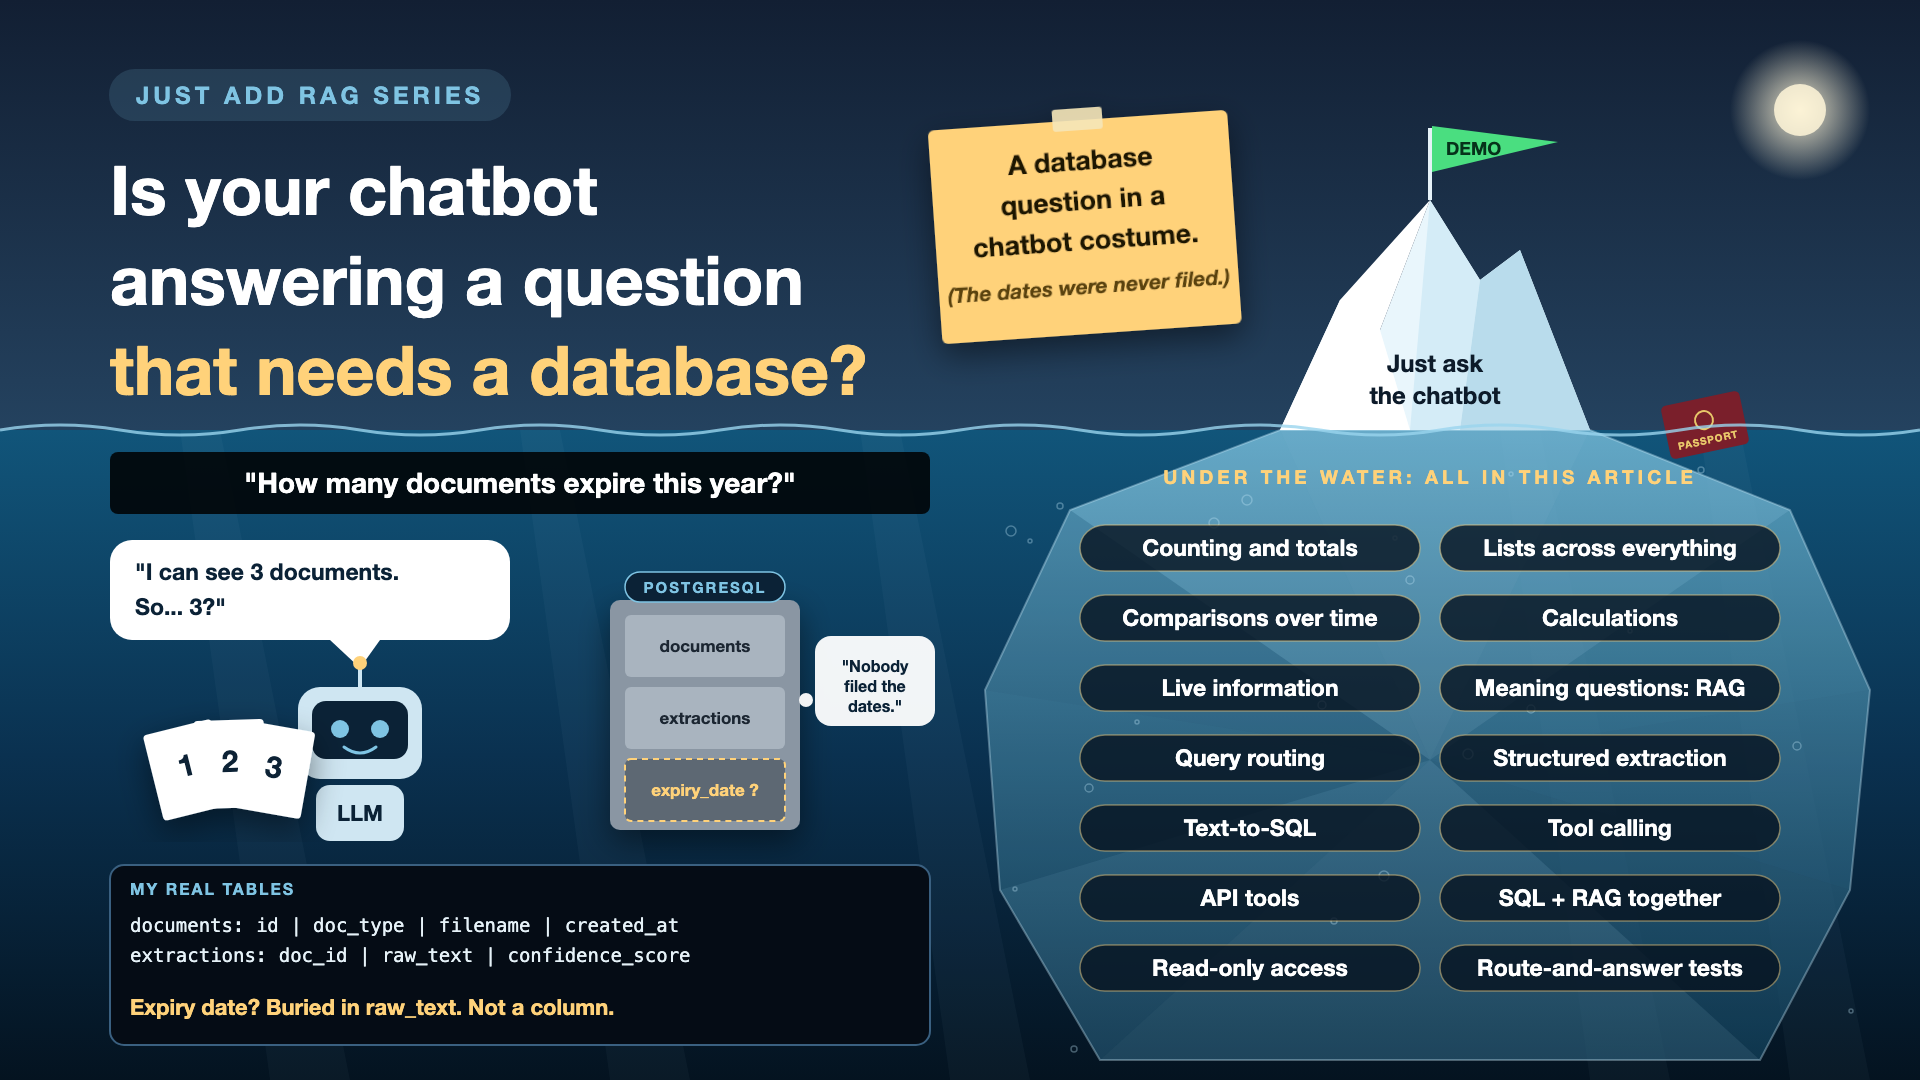
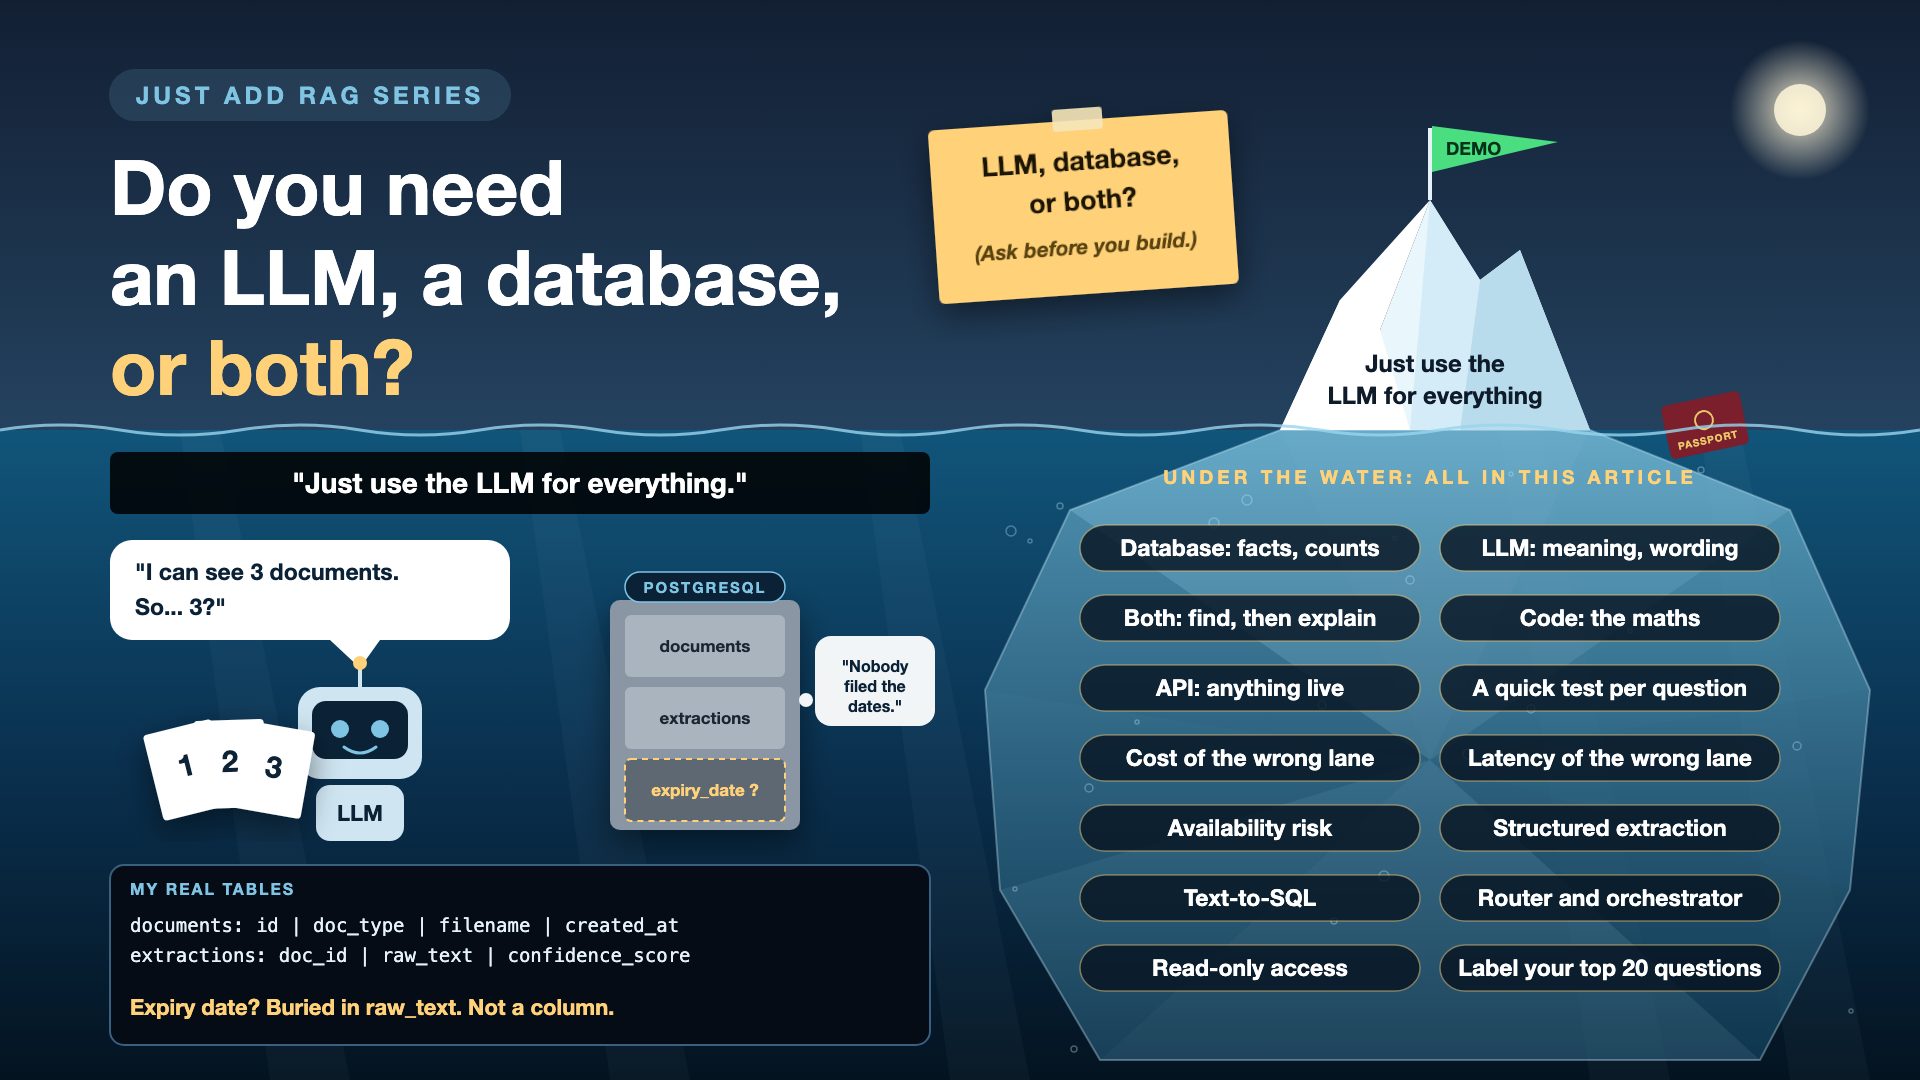
Write-up 6 retitled: Do you need an LLM, a database, or both? New cover and post text

diff --git a/01-just-add-rag/05-right-tool.md b/01-just-add-rag/05-right-tool.md
@@ -1,56 +1,74 @@
-# 6. Is Your Chatbot Answering a Question That Needs a Database?
+# 6. Do You Need an LLM, a Database, or Both?
 
 ![Cover](images/05-right-tool-cover.png)
 
-*Just add RAG series: Picking the right tool*
+*Just add RAG series: LLM, database, or both*
 
-"Which of my documents expire this year?"
+Every AI kickoff quietly assumes the answer is an LLM. Often it's a database. Sometimes it's both.
 
-Sounds like a perfect question for an AI assistant. It isn't. It's a database query wearing a chatbot costume.
+"Which of my documents expire this year?" sounds like a perfect question for an AI assistant. It isn't. It's a database query wearing a chatbot costume. RAG finds a few relevant passages and answers from them. This question needs every document checked, every date compared, and a list counted. A simple database query does that in milliseconds.
 
-RAG is built to find a few relevant passages and answer from them. This question needs every document checked, every date compared, and a list counted. Search for meaning can't do that. A simple database query can, in milliseconds.
+But "What does my renewal policy say about lost passports?" is the opposite. No database column holds that. It needs reading and understanding. That's LLM work.
+
+And "Which documents expire this year, and what do I need to renew them?" needs both.
 
 *New to terms like text-to-SQL or query routing? Cheat sheet at the end.*
 
-## Why picking the right tool matters
+## Why this choice matters
 
-- **RAG sees a few chunks, not everything.** It answers from the top 3 results. Ask "how many?" and it counts what it was handed, not what you have.
-- **The wrong tool still sounds right.** An incomplete list arrives in perfect sentences. Nobody notices the missing items.
-- **Users don't know the difference.** They just ask. Telling a search question from a counting question is the system's job, not theirs.
-- **The right tool is often cheaper.** A database query costs almost nothing. A long LLM answer built from guesswork costs tokens and trust.
+- **An LLM sees a few chunks, not everything.** RAG answers from the top 3 results. Ask "how many?" and it counts what it was handed, not what you have.
+- **The wrong choice still sounds right.** An incomplete list arrives in perfect sentences. Nobody notices the missing items.
+- **Users don't know the difference.** They just ask. Deciding which kind of question it is, is the system's job, not theirs.
+- **It shapes cost, speed and uptime.** More on that below.
 
 ## What my assistant could, and couldn't, answer
 
 My PostgreSQL database already had a `documents` table, with each document's type, file name and upload date, and an `extractions` table holding the OCR text.
 
-So "how many documents have I uploaded?" was one SQL line away. But "which documents expire this year?" wasn't, because the expiry date lived only inside the raw text: `समाप्ति की तिथि 29/09/2024`. Not in a column anyone could query. The answer existed. It just wasn't anywhere a database could count it.
+So "how many documents have I uploaded?" was one SQL line away. No LLM needed. But "which documents expire this year?" wasn't, because the expiry date lived only inside the raw text: `समाप्ति की तिथि 29/09/2024`. Not in a column anyone could query. The answer existed. It just wasn't anywhere a database could count it.
 
-## Six kinds of questions, six different tools
+## Three lanes: database, LLM, or both
 
-- **Counting and totals.** "How many documents do I have?" RAG sees the top 3, so it may happily say three. *Fix: answer from the database, not from search.*
-- **Lists across everything.** "Which documents expire this year?" *Fix: pull the expiry date into its own column when the document arrives, then query it.*
-- **Comparisons over time.** "Did my salary go up between March and April?" *Fix: store the amounts as numbers, let the database compare, and let the LLM explain.*
-- **Calculations.** "How many days until my passport expires?" LLMs are great with words and slightly creative with arithmetic. *Fix: do the maths in code.*
-- **Live information.** "Is my visa appointment confirmed?" No document knows that. *Fix: ask the system that does, through an API.*
-- **Questions about meaning.** "What does my travel policy say about lost baggage?" *This one really is RAG's job.*
+**Database only.** Exact facts, counts, totals, lists, comparisons and lookups.
+- "How many documents do I have?"
+- "Which documents expire this year?" (once the date is in a column)
+- "Did my salary go up between March and April?"
+
+**LLM only (RAG).** Meaning, wording, summaries and explanations.
+- "What does my travel policy say about lost baggage?"
+- "Summarise the renewal rules in plain English."
+
+**Both.** The database finds, the LLM explains.
+- "Which documents expire this year, and what do I need to renew them?" The database lists the documents; the LLM reads the renewal policy and writes one answer.
+
+Two more lanes sit next to these. **Code**, for calculations like "how many days until my passport expires?", because LLMs are great with words and slightly creative with arithmetic. And **live systems through an API**, for anything no document knows, like "is my visa appointment confirmed?"
+
+## A quick test for every question
+
+1. **Is the answer an exact fact, number or list?** Use the database.
+2. **Does it need understanding or wording?** Use the LLM.
+3. **Both?** Database to find, LLM to explain.
+4. **Is it maths?** Use code. **Is it live?** Call the system that owns it.
 
 ## It's not just about the right answer
 
-The wrong tool doesn't only risk a wrong answer. It quietly hurts every non-functional requirement too, the "how well" qualities nobody demos but every user feels:
+Using an LLM where a database would do doesn't only risk a wrong answer. It quietly hurts every non-functional requirement too, the "how well" qualities nobody demos but every user feels:
 
 - **Cost.** RAG pays for an embedding call, a vector search and an LLM call over several chunks, every single time. A database count costs almost nothing. *Why it matters: thousands of counting questions a day turn into a real bill.*
 - **Latency.** My RAG answers took 3 to 5 seconds. A database query takes milliseconds. *Why it matters: users wait for every answer, and slow answers get abandoned.*
-- **Availability.** My RAG answer depended on OpenAI's embedding API, Qdrant and the LLM API. The database answer depends only on my own database. *Why it matters: when the AI provider is down, the counting questions can still work.*
-- **Performance at scale.** Heavy RAG work for simple counts queues up behind the real search questions. Databases are built for counts and filters, and their answers can be cached. *Why it matters: under load, everything slows down, not just the counting questions.*
+- **Availability.** My RAG answer depended on OpenAI's embedding API, Qdrant and the LLM API. The database answer depends only on my own database. *Why it matters: when the AI provider is down, the database questions can still work.*
+- **Performance at scale.** Heavy LLM work for simple counts queues up behind the real search questions. Databases are built for counts and filters, and their answers can be cached. *Why it matters: under load, everything slows down, not just the counting questions.*
 - **Accuracy and consistency.** RAG counts only what it was handed. The database checks every row, and gives the same answer every time. *Why it matters: a count that changes with each ask isn't a count.*
 
-Two honest trade-offs. The router itself adds a small step, so keep it light. And text-to-SQL uses an LLM call too, but just once, to write one precise query, instead of searching and stuffing chunks into a prompt.
+The reverse mistake hurts too. Forcing meaning questions into SQL gives rigid, keyword-only answers that miss what the user actually asked.
 
-## The right-tool toolkit, in plain words
+Two honest trade-offs. Deciding the lane adds a small step, so keep it light. And text-to-SQL uses an LLM call too, but just once, to write one precise query, instead of searching and stuffing chunks into a prompt.
+
+## The toolkit, in plain words
 
 1. **A receptionist at the front desk**
 
-   Every question is sent to the right counter: search, database, calculator or live system. That's **query routing**.
+   Every question is sent to the right counter: database, LLM, calculator or live system. That's **query routing**.
 2. **File the facts when the mail arrives**
 
    When a document is uploaded, pull out its key facts (expiry date, amounts, IDs) into proper columns. That's **structured extraction**.
@@ -69,7 +87,7 @@ Two honest trade-offs. The router itself adds a small step, so keep it light. An
 
 ## How it works in practice
 
-The router is the first step after the question arrives. A small model, or even a simple classifier, labels the question: search, count, calculate, live, or "can't help". Then it goes to the matching tool.
+The router is the first step after the question arrives.
 
 ```
                      User question
@@ -86,8 +104,8 @@ The router is the first step after the question arrives. A small model, or even 
      |            |                  |             |
      v            v                  v             v
 +---------+  +----------+  +--------------+  +-----------+
-| SEARCH  |  |  COUNT   |  |  CALCULATE   |  |   LIVE    |
-|  (RAG)  |  |  (SQL)   |  |   (code)     |  |   (API)   |
+| MEANING |  |  FACTS   |  |    MATHS     |  |   LIVE    |
+|  (LLM)  |  |  (SQL)   |  |   (code)     |  |   (API)   |
 +---------+  +----------+  +--------------+  +-----------+
  "What does   "Which docs   "Days until my   "Is my visa
   the policy   expire this    passport         appointment
@@ -102,7 +120,7 @@ The router is the first step after the question arrives. A small model, or even 
                  +-------------------+
 ```
 
-**Who decides?** At design time, people decide which question types go to which tool. At runtime, the router decides for each question: simple rules, a small classifier, or the LLM itself choosing from a list of tools. Mixed questions, like "Which documents expire this year, and what does the renewal policy say?", need an orchestrator that runs the steps in order: database first, then documents, then one combined answer. Start simple, with fixed code paths, and only let the LLM choose when the questions get too varied.
+**Who decides?** At design time, people decide which question types go to which lane. At runtime, the router decides for each question: simple rules, a small classifier, or the LLM itself choosing from a list of tools. Mixed questions, like "Which documents expire this year, and what do I need to renew them?", need an orchestrator that runs the steps in order: database first, then documents, then one combined answer. Start simple, with fixed code paths, and only let the LLM choose when the questions get too varied.
 
 Text-to-SQL needs guard rails:
 
@@ -114,7 +132,7 @@ Text-to-SQL needs guard rails:
 
 ## How do you know it works?
 
-List the 20 questions users ask most, and label each with the tool it needs. Then test two things: did the router pick the right tool, and was the answer right? A correct answer from the wrong tool is luck, not design.
+List the 20 questions users ask most, and label each: database, LLM, both, code or live. Then test two things: did the router pick the right lane, and was the answer right? A correct answer from the wrong lane is luck, not design.
 
 ## Cheat sheet: the words you'll hear, with examples
 
@@ -123,7 +141,7 @@ List the 20 questions users ask most, and label each with the tool it needs. The
 - **Schema:** the layout of a database: tables, columns, types. *`documents` has `doc_type`, `filename`, `created_at`.*
 - **SQL:** the standard language for asking a database questions. *"Count my documents where type is passport."*
 - **Aggregation:** combining many rows into one answer: count, sum, average. *"How many documents do I have?"*
-- **Query routing:** sending each question to the right tool. *Travel-rules question to RAG, counting question to SQL.*
+- **Query routing:** sending each question to the right lane. *Policy question to the LLM, counting question to SQL.*
 - **Intent:** what kind of question it is. *"Which expire this year?": a list, not a search.*
 - **Structured extraction:** pulling key facts into columns at upload time. *Expiry date 29/09/2024 saved as a date column.*
 - **Text-to-SQL:** an LLM turning a question into a database query. *"Which expire this year?" becomes a query on the expiry column.*
@@ -131,20 +149,20 @@ List the 20 questions users ask most, and label each with the tool it needs. The
 - **API:** a way for one system to ask another for live data. *The visa appointment system.*
 - **Read-only access:** permission to read, never change. *The AI can list documents, not delete them.*
 - **NFR (non-functional requirement):** how well a system works, not what it does: cost, speed, uptime, scale. *A 3-second answer and a 20-millisecond answer can both be correct. Only one feels fast.*
-- **Router:** the step that decides which tool handles each question. *"How many" goes to SQL, "what does it say" goes to RAG.*
+- **Router:** the step that decides which lane handles each question. *"How many" goes to SQL, "what does it say" goes to the LLM.*
 - **Orchestrator:** the code or framework that runs several steps in order and combines their results. *Database list first, then policy search, then one answer.*
 
 ## Take this to your next kickoff meeting
 
-1. List the top 20 questions users will ask, and label each: search, count, calculate, or live data.
+1. Before saying "LLM", list the top 20 questions users will ask, and label each: database, LLM, both, code or live.
 2. Pull key facts like dates, amounts and IDs into columns when documents arrive, not when questions do.
 3. Give the AI read-only, user-filtered database access, never the keys to everything.
 
-Not every question is a search. Some are just a database query with good manners.
+The best AI systems use the LLM where it shines, and a plain database everywhere else.
 
 Next write-up (7): **What happens when your AI finds two versions of the truth?** (Versions and ownership)
 
-Follow me for the next one. And tell me: what's a question your users asked a chatbot that really needed a spreadsheet?
+Follow me for the next one. And tell me: what's a question your users asked an AI that really needed a spreadsheet?
 
 **Earlier in this series:**
 
@@ -159,20 +177,20 @@ Follow me for the next one. And tell me: what's a question your users asked a ch
 **Post text (copy and paste):**
 
 ```
-"Which of my documents expire this year?"
+Every AI kickoff assumes the answer is an LLM. Often it's a database. Sometimes it's both.
 
-Sounds like a chatbot question. It's a database query wearing a chatbot costume.
+"Which of my documents expire this year?" isn't an AI question. It's a database query wearing a chatbot costume.
 
-Send it to RAG anyway, and you pay for it:
+Use an LLM where a database would do, and you pay for it:
 • Accuracy: it counts only the 3 chunks it was handed, so the list is quietly incomplete
 • Latency: seconds instead of milliseconds
 • Cost: an embedding, a search and an LLM call, for a question SQL answers almost free
 • Availability: it fails whenever the AI provider is down
 • Trust: the answer changes each time you ask
 
-Write-up 6 in my #JustAddRAG series: six kinds of questions that each need a different tool, who decides the route, and three things to take to your next kickoff meeting.
+Write-up 6 in my #JustAddRAG series: the three lanes (database, LLM, or both), a quick test for every question, who decides the route, and three things to take to your next kickoff meeting.
 
-What's a question your users asked a chatbot that really needed a spreadsheet?
+Which questions in your AI project never needed an LLM at all?
 
 #AIEngineering #RAG #GenAI #EnterpriseAI #JustAddRAG
 ```

diff --git a/01-just-add-rag/README.md b/01-just-add-rag/README.md
@@ -11,7 +11,7 @@ A write-up is marked **Published** only once it is live on LinkedIn.
 | 3 | [What if the answer was in your docs, but you cut it in half?](02-chunking.md) | Chunking | **Published** | [Read](https://www.linkedin.com/pulse/what-answer-your-docs-you-cut-half-arpit-jain-pczxf/) |
 | 4 | [Is your AI hallucinating, or just looking in the wrong place?](03-retrieval.md) | Retrieval, multilingual questions | **Published** | [Read](https://www.linkedin.com/pulse/your-ai-hallucinating-just-looking-wrong-place-arpit-jain-byozf/) |
 | 5 | [What does your AI say when it doesn't know?](04-grounding.md) | Grounding, citations, follow-ups, human review | **Published** | [Read](https://www.linkedin.com/pulse/5-what-does-your-ai-say-when-doesnt-know-arpit-jain-wr5bf) |
-| 6 | [Is your chatbot answering a question that needs a database?](05-right-tool.md) | Picking the right tool for the question | Draft for review | |
+| 6 | [Do you need an LLM, a database, or both?](05-right-tool.md) | LLM, database, or both: picking the right lane | Draft for review | |
 | 7 | [What happens when your AI finds two versions of the truth?](06-versions.md) | Versions, ownership after go-live | Draft for review | |
 | 8 | [Can the intern ask your AI about the CEO's salary?](07-permissions.md) | Permissions, security, prompt injection, guardrails | Draft for review | |
 | 9 | [How many questions did you test before saying "it works"?](08-evals.md) | Evals, ground truth, test harness | Draft for review | |
